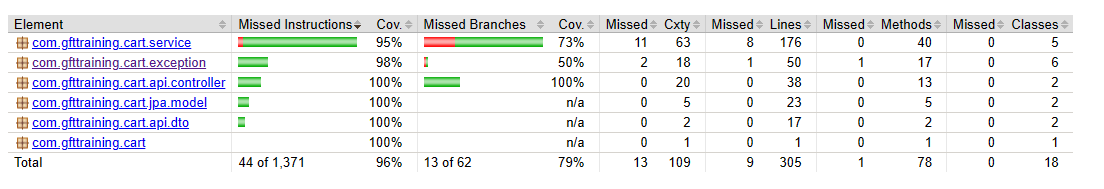
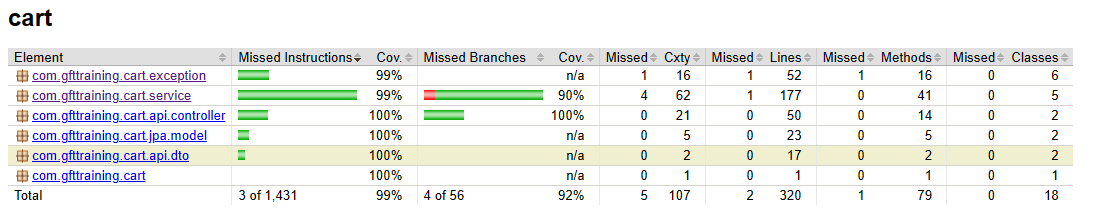
cleanup & general exception

diff --git a/src/main/java/com/gfttraining/cart/exception/GlobalExceptionHandler.java b/src/main/java/com/gfttraining/cart/exception/GlobalExceptionHandler.java
@@ -11,7 +11,6 @@ import org.springframework.http.ResponseEntity;
 import org.springframework.web.bind.MethodArgumentNotValidException;
 import org.springframework.web.bind.annotation.ControllerAdvice;
 import org.springframework.web.bind.annotation.ExceptionHandler;
-import org.springframework.web.context.request.WebRequest;
 import org.springframework.web.method.annotation.MethodArgumentTypeMismatchException;
 
 import com.gfttraining.cart.api.dto.ErrorResponse;
@@ -24,7 +23,7 @@ import lombok.extern.slf4j.Slf4j;
 public class GlobalExceptionHandler {
 
 	@ExceptionHandler(BadRequestParamException.class)
-	public ResponseEntity<ErrorResponse> handlesBadRequestParamException(BadRequestParamException ex, WebRequest req) {
+	public ResponseEntity<ErrorResponse> handlesBadRequestParamException(BadRequestParamException ex) {
 		ErrorResponse res = ErrorResponse.builder().timestamp(LocalDateTime.now()).msg(ex.getMessage()).build();
 
 		log.error("Message: " + ex.getMessage() + " Cause: " + ex.getCause() + " Stack Trace: " + ex.getStackTrace()
@@ -34,7 +33,7 @@ public class GlobalExceptionHandler {
 	}
 
 	@ExceptionHandler(EntityNotFoundException.class)
-	public ResponseEntity<ErrorResponse> handlesBadRequestBodyException(EntityNotFoundException ex, WebRequest req) {
+	public ResponseEntity<ErrorResponse> handlesBadRequestBodyException(EntityNotFoundException ex) {
 		ErrorResponse res = ErrorResponse.builder().timestamp(LocalDateTime.now()).msg(ex.getMessage()).build();
 
 		log.error("Message: " + ex.getMessage() + " Cause: " + ex.getCause() + " Stack Trace: " + ex.getStackTrace()
@@ -44,8 +43,7 @@ public class GlobalExceptionHandler {
 	}
 
 	@ExceptionHandler(MethodArgumentTypeMismatchException.class)
-	public ResponseEntity<ErrorResponse> handlesBadPathVariableException(MethodArgumentTypeMismatchException ex,
-			WebRequest req) {
+	public ResponseEntity<ErrorResponse> handlesBadPathVariableException(MethodArgumentTypeMismatchException ex) {
 		ErrorResponse res = ErrorResponse.builder().timestamp(LocalDateTime.now()).msg(ex.getMessage()).build();
 
 		log.error("Message: " + ex.getMessage() + " Cause: " + ex.getCause() + " Stack Trace: " + ex.getStackTrace()
@@ -56,16 +54,14 @@ public class GlobalExceptionHandler {
 
 	@Generated
 	@ExceptionHandler(ImpossibleQuantityException.class)
-	public ResponseEntity<ErrorResponse> handleNegativeQuantityException(ImpossibleQuantityException ex,
-			WebRequest req) {
+	public ResponseEntity<ErrorResponse> handleNegativeQuantityException(ImpossibleQuantityException ex) {
 		ErrorResponse res = ErrorResponse.builder().timestamp(LocalDateTime.now()).msg(ex.getMessage()).build();
 		log.error("Invalid quantity for a product. {} | {}", res.getMsg(), ex.getCause());
 		return new ResponseEntity<ErrorResponse>(res, HttpStatus.CONFLICT);
 	}
 
 	@ExceptionHandler(MethodArgumentNotValidException.class)
-	public ResponseEntity<Object> handleValidationError(MethodArgumentNotValidException ex,
-			WebRequest req) {
+	public ResponseEntity<Object> handleValidationError(MethodArgumentNotValidException ex) {
 		Map<String, Object> fieldErrors = new HashMap<>();
 		fieldErrors.put("timestamp", LocalDateTime.now());
 
@@ -88,8 +84,7 @@ public class GlobalExceptionHandler {
 	}
 
 	@ExceptionHandler(RemoteServiceInternalException.class)
-	public ResponseEntity<ErrorResponse> handleRemoteServiceInternalException(RemoteServiceInternalException ex,
-			WebRequest req) {
+	public ResponseEntity<ErrorResponse> handleRemoteServiceInternalException(RemoteServiceInternalException ex) {
 		ErrorResponse res = ErrorResponse.builder().timestamp(LocalDateTime.now())
 				.msg(ex.getMessage())
 				.build();
@@ -98,8 +93,7 @@ public class GlobalExceptionHandler {
 	}
 
 	@Generated
-	public ResponseEntity<ErrorResponse> handleRemoteServiceBadRequestException(RemoteServiceBadRequestException ex,
-			WebRequest req) {
+	public ResponseEntity<ErrorResponse> handleRemoteServiceBadRequestException(RemoteServiceBadRequestException ex) {
 		ErrorResponse res = ErrorResponse.builder().timestamp(LocalDateTime.now())
 				.msg(ex.getMessage())
 				.build();
@@ -109,7 +103,7 @@ public class GlobalExceptionHandler {
 	}
 
 	@ExceptionHandler(OutOfStockException.class)
-	public ResponseEntity<ErrorResponse> handleOutOfstockException(OutOfStockException ex, WebRequest req) {
+	public ResponseEntity<ErrorResponse> handleOutOfstockException(OutOfStockException ex) {
 		ErrorResponse res = ErrorResponse.builder().timestamp(LocalDateTime.now())
 				.msg(ex.getMessage())
 				.build();
@@ -118,7 +112,7 @@ public class GlobalExceptionHandler {
 	}
 
 	@ExceptionHandler(InvalidUserDataException.class)
-	public ResponseEntity<ErrorResponse> handleInvalidUserDataExecption(InvalidUserDataException ex, WebRequest req) {
+	public ResponseEntity<ErrorResponse> handleInvalidUserDataExecption(InvalidUserDataException ex) {
 		ErrorResponse res = ErrorResponse.builder().timestamp(LocalDateTime.now())
 				.msg(ex.getMessage())
 				.build();
@@ -129,13 +123,20 @@ public class GlobalExceptionHandler {
 
 	@Generated
 	@ExceptionHandler(BadMethodRequestException.class)
-	public ResponseEntity<ErrorResponse> handlerInvalidMethod(BadMethodRequestException ex,
-			WebRequest req) {
+	public ResponseEntity<ErrorResponse> handlerInvalidMethod(BadMethodRequestException ex) {
 
 		ErrorResponse res = ErrorResponse.builder().timestamp(LocalDateTime.now()).msg(ex.getMessage()).build();
 
 		log.error("Feature is disabled. {} | {}", res.getMsg(), ex.getCause());
 		return new ResponseEntity<ErrorResponse>(res, HttpStatus.METHOD_NOT_ALLOWED);
+	}
+
+	@ExceptionHandler(Exception.class)
+	public ResponseEntity<ErrorResponse> handlerUnknownException(Exception ex) {
+		ErrorResponse res = ErrorResponse.builder().timestamp(LocalDateTime.now()).msg(ex.getMessage()).build();
+
+		log.error("Feature is disabled. {} | {}", res.getMsg(), ex.getCause());
+		return new ResponseEntity<ErrorResponse>(res, HttpStatus.INTERNAL_SERVER_ERROR);
 	}
 
 }

diff --git a/src/main/java/com/gfttraining/cart/service/RestService.java b/src/main/java/com/gfttraining/cart/service/RestService.java
@@ -1,7 +1,6 @@
 package com.gfttraining.cart.service;
 
 import static org.springframework.http.HttpStatus.Series.CLIENT_ERROR;
-import static org.springframework.http.HttpStatus.Series.SERVER_ERROR;
 
 import java.io.IOException;
 
